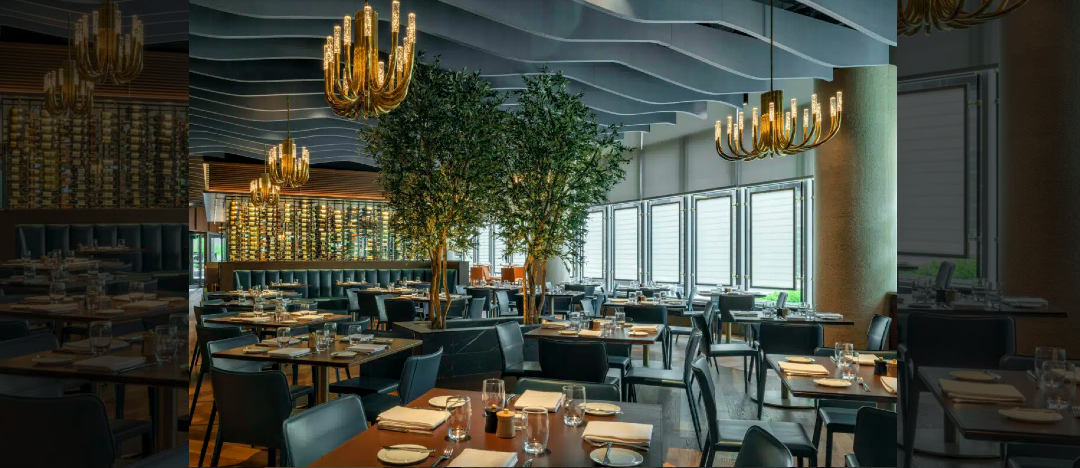
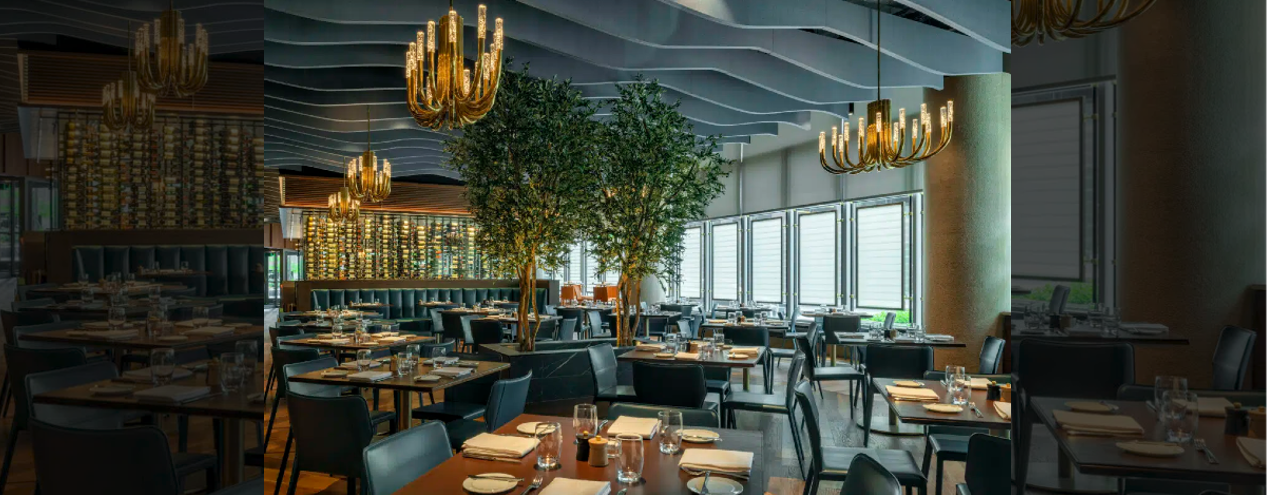
ändrat bildstorlek

diff --git a/spicystars/src/App.css b/spicystars/src/App.css
@@ -17,7 +17,7 @@ body {
 }
 
 .form-Info {
-	display: flex;
+		display: flex;
 		flex-direction: column;
 		border-radius: 0.4em;
 		padding: 1em;
@@ -25,7 +25,13 @@ body {
 		background-color: rgb(215, 136, 17);
 		margin-bottom: 3em;
 	}
-
+.frontPicture{
+	display: flex;
+	background-repeat: no-repeat;
+	min-height: 10px;
+	min-width: 100px;
+	
+}
 
 h1, h2{
 	text-align: center;

diff --git a/spicystars/src/App.jsx b/spicystars/src/App.jsx
@@ -3,6 +3,7 @@ import { useState } from 'react'
 import './App.css'
 import Menu from './data/lista'
 import Form from './components/Form'
+import MyPicture from './components/imageFront'
 
 
 function App() {
@@ -11,7 +12,9 @@ function App() {
 
   return (
     <>
-	
+	<div> 
+	<MyPicture/>
+	</div>
    <div className='foodMenu'> 
    <Menu /> 
    </div>

diff --git a/spicystars/src/data/lista.jsx b/spicystars/src/data/lista.jsx
@@ -66,6 +66,7 @@ return (
           <p>Ingredienser: {mat.ingredients.join(', ')}</p>
           <p>  {mat.strength} </p>
           <p>Pris: {mat.price}<button> Lägg till</button></p>
+		  //koppla button med price och id för att räkna ut i beställning som ska hamna i 'kundvagnen'
           
         </div>
       ))}

diff --git a/spicystars/src/components/imageFront.jsx b/spicystars/src/components/imageFront.jsx
@@ -1,0 +1,11 @@
+import framsidabild from '../data/framsidabild.png'
+
+const MyPicture = () => {
+	return (
+		<div className='frontPicture'> 
+		<img src={framsidabild} alt="framsida bild"/>
+		</div>
+	)
+}
+
+export default MyPicture
